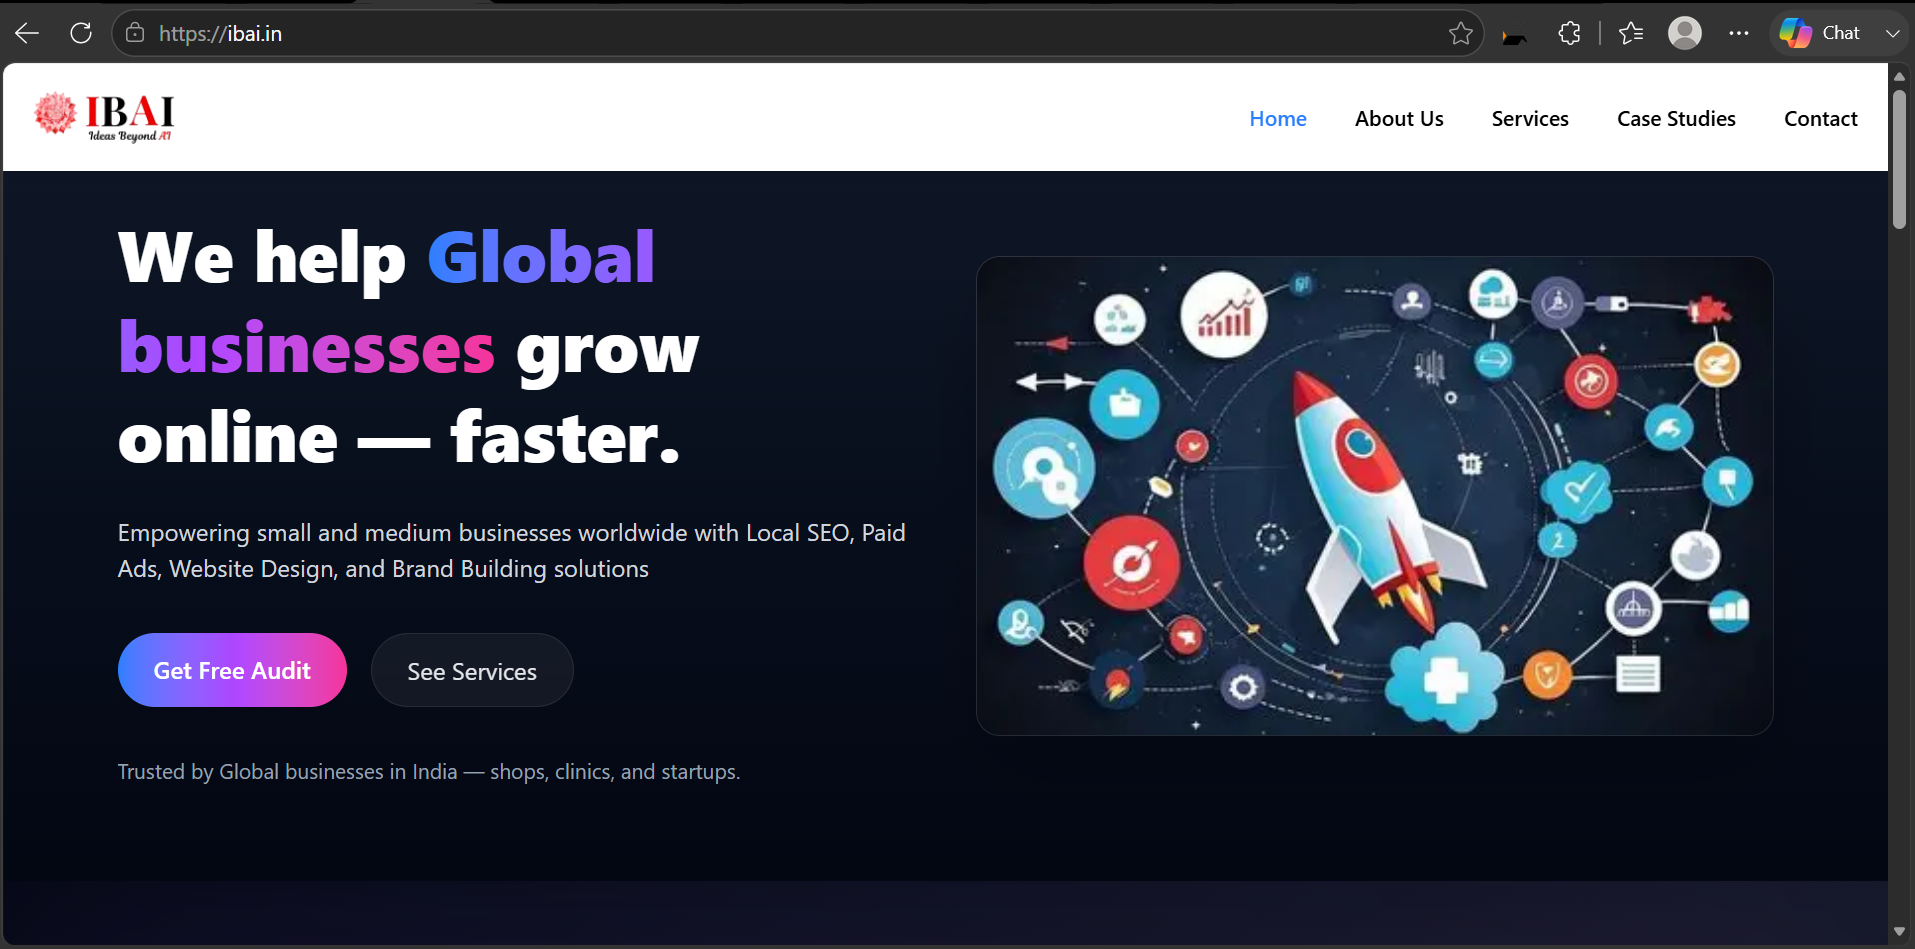
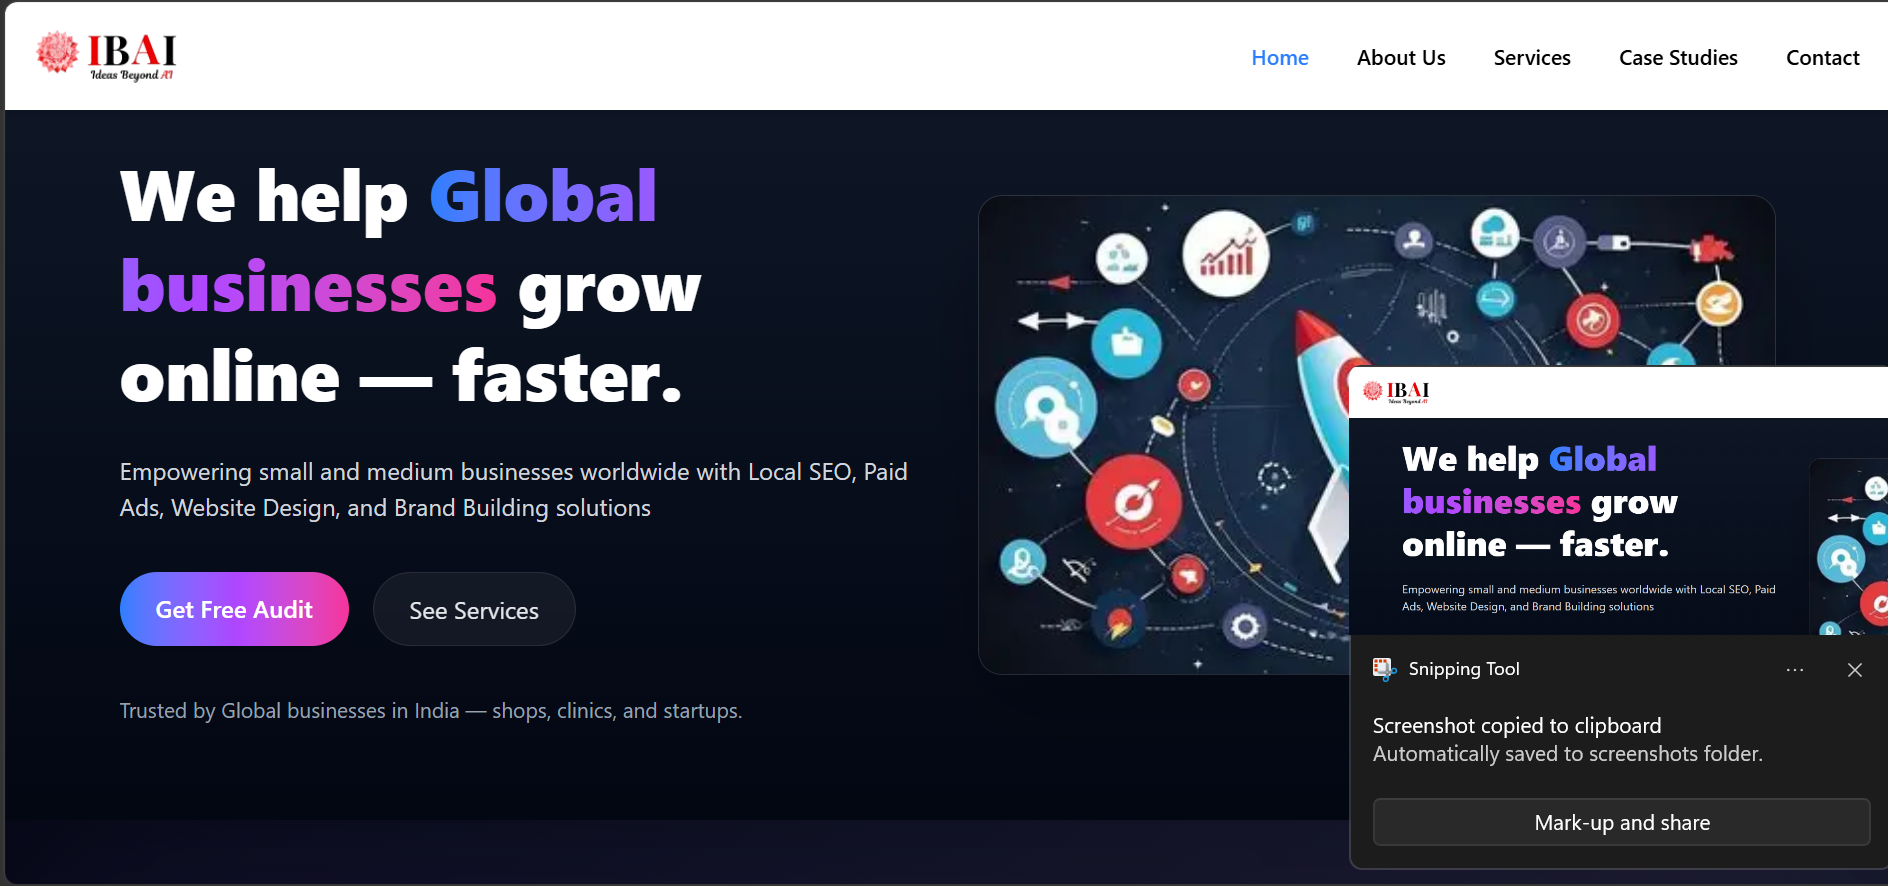
change the formant of text

diff --git a/index.html b/index.html
@@ -94,19 +94,19 @@
             <div class="progress">
               <div class="progress-bar" style="width: 90%"></div>
             </div>
-            <p>NODE JS 90%</p>
+            <p>Taliwind Css 70%</p>
             <div class="progress">
-              <div class="progress-bar" style="width: 90%"></div>
+              <div class="progress-bar" style="width: 70%"></div>
             </div>
-            <p>REACT JS 80%</p>
+            <p>REACT JS 60%</p>
+            <div class="progress">
+              <div class="progress-bar" style="width: 60%"></div>
+            </div>
+            <p>HTML 90%</p>
             <div class="progress">
               <div class="progress-bar" style="width: 80%"></div>
             </div>
-            <p>EXPRESS JS 80%</p>
-            <div class="progress">
-              <div class="progress-bar" style="width: 80%"></div>
-            </div>
-            <p>MONGODB 70%</p>
+            <p>CSS 70%</p>
             <div class="progress">
               <div class="progress-bar" style="width: 70%"></div>
             </div>
@@ -130,13 +130,6 @@
           </div>
           <div>
             <ul class="about_ul">
-              <li class="about_li">
-                <strong
-                  >Profile:&nbsp;&nbsp;&nbsp;&nbsp;&nbsp;&nbsp;&nbsp;&nbsp;&nbsp;&nbsp;
-                  &nbsp;&nbsp;&nbsp;&nbsp;&nbsp;&nbsp;&nbsp;
-                  &nbsp;&nbsp;&nbsp;&nbsp;&nbsp;</strong
-                >FrontEnd Developer
-              </li>
               <li class="about_li">
                 <strong
                   >Domain:&nbsp;&nbsp;&nbsp;&nbsp;&nbsp;&nbsp;&nbsp;&nbsp;
@@ -325,8 +318,8 @@
           <h2 class="card_h2" style="padding-top: 20px">Ideas Beyond Ai</h2>
           <br />
           <h3 class="card_h4">
-          -Implemented SEO best practices and performance optimizations, contributing to approximately
-12% growth in organic traffic. -Developed a responsive business website with reusable React components, improving user experience across all devices.
+          Implemented SEO best practices and performance optimizations, contributing to approximately
+12% growth in organic traffic.Developed a responsive business website with reusable React components, improving user experience across all devices.
           </h3>
         </div>
         <div class="card_project">